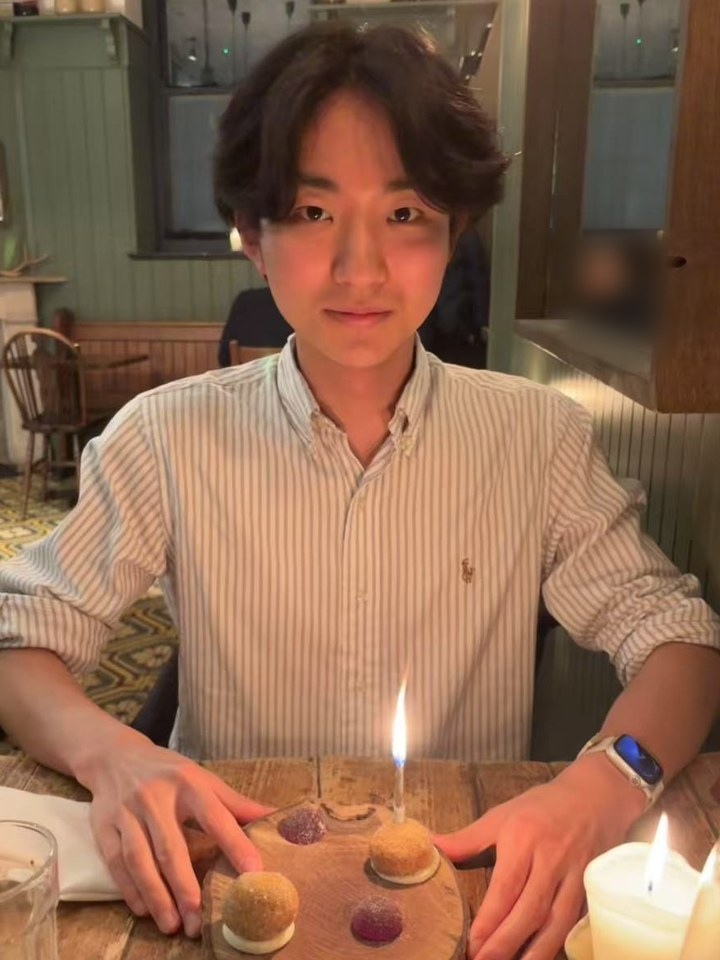
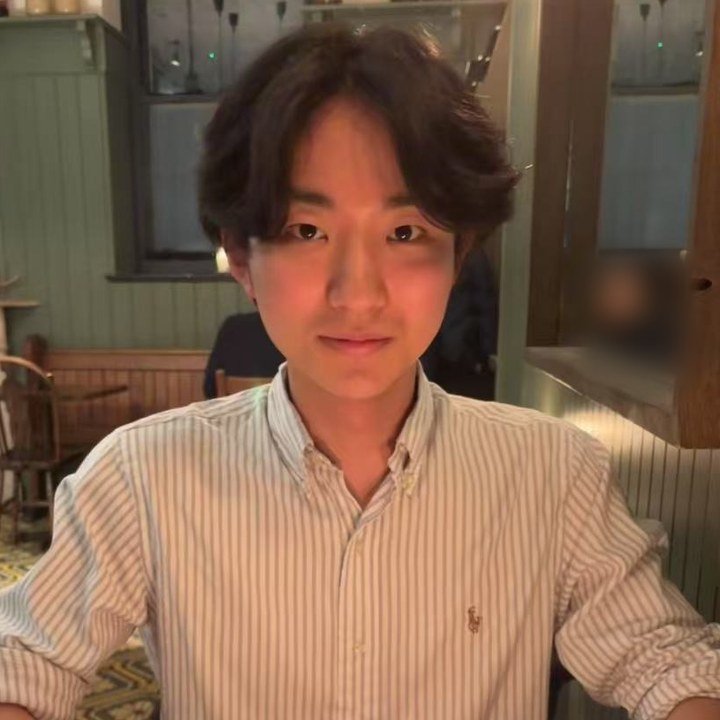
Crop profile photo above the table

diff --git a/index.html b/index.html
@@ -31,7 +31,7 @@
     <p class="subtitle">MEng Engineering Science, St Hugh's College, University of Oxford</p>
 
     <div class="intro">
-      <img class="profile" src="assets/img/profile.jpg" alt="Kodai Tsutsui at a restaurant table with a birthday dessert and candle" width="720" height="960">
+      <img class="profile" src="assets/img/profile.jpg" alt="Kodai Tsutsui" width="720" height="720">
       <p>I work on learning-based control for legged robots and humanoids. For my master's thesis I'm working on contact-based loco-manipulation on the Unitree G1, using human motion retargeting, whole-body tracking and learned contact planning.</p>
       <p>My research internship in the Articulated Robotics Group at the Oxford Robotics Institute, supervised by Ioannis Havoutis, is <a href="projects/beyond-acrobotics.html">Beyond Acrobotics</a>. It extends the Acrobotics generalist parkour pipeline to new robot bodies and to the imperfect height maps that depth cameras produce. The policies run on ANYmal D, a wheeled Unitree Go2-W and a Unitree G1 humanoid in simulation, and I'm currently deploying on ANYmal D and G1.</p>
       <p>I also co-lead <a href="cv.html#stride">Oxford STRIDE</a>, a student team building the Berkeley Humanoid Lite. Before this I worked on bipedal robots at <a href="cv.html#algomatic">Algomatic</a> in Tokyo and on a haptic training device in Oxford's <a href="cv.html#biorobotics">Healthcare Biorobotics Lab</a>. My full background is on the <a href="cv.html">CV page</a>.</p>

diff --git a/assets/css/style.css b/assets/css/style.css
@@ -134,7 +134,7 @@ p { margin: 0 0 16px; }
   display: block;
   width: 270px;
   height: auto;
-  aspect-ratio: 3 / 4;
+  aspect-ratio: 1;
   margin: 0 0 16px 16px;
   border-radius: 4px;
   object-fit: cover;
